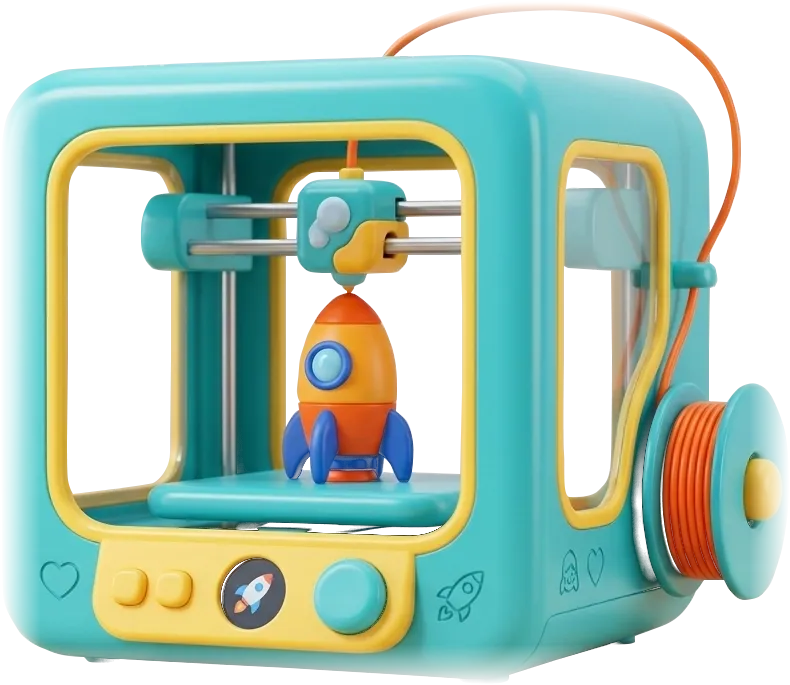
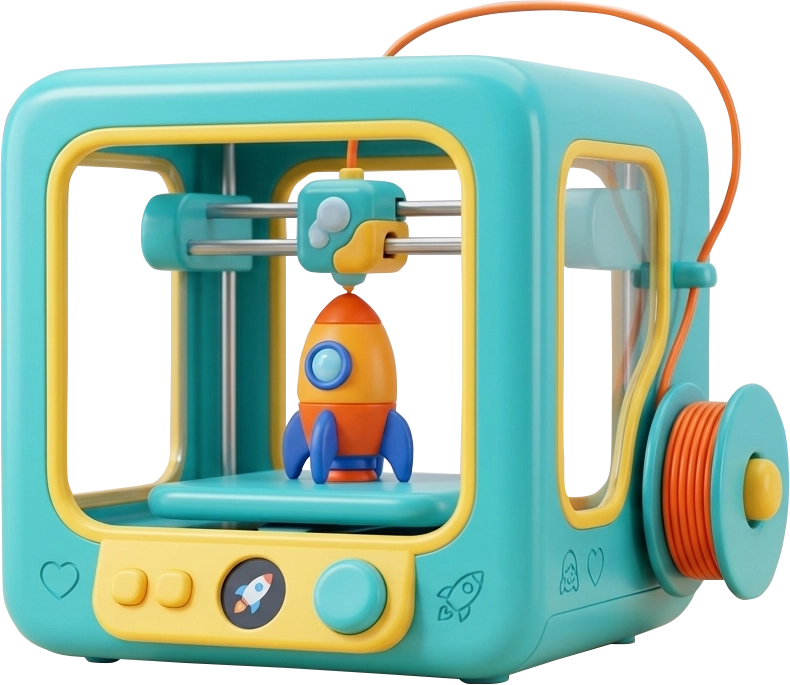
5

diff --git a/crm/src/components/BentoGrid.tsx b/crm/src/components/BentoGrid.tsx
@@ -112,7 +112,7 @@ export function BentoGrid() {
             {(feature as any).image && (
               <div className="mt-auto pt-10 relative w-full flex justify-center pointer-events-none">
                  <div className="absolute inset-x-0 bottom-0 h-24 bg-gradient-to-t from-slate-950 to-transparent z-10"></div>
-                 <img src={(feature as any).image} alt={feature.title} className="w-[85%] md:w-[90%] object-contain drop-shadow-[0_-10px_25px_rgba(244,63,94,0.15)] group-hover:scale-105 group-hover:-translate-y-2 transition-all duration-500 ease-out z-0 md:-translate-y-4" />
+                 <img src={(feature as any).image} alt={feature.title} className="w-[85%] md:w-[90%] object-contain group-hover:scale-105 group-hover:-translate-y-2 transition-all duration-500 ease-out z-0 md:-translate-y-4" />
               </div>
             )}
           </div>
